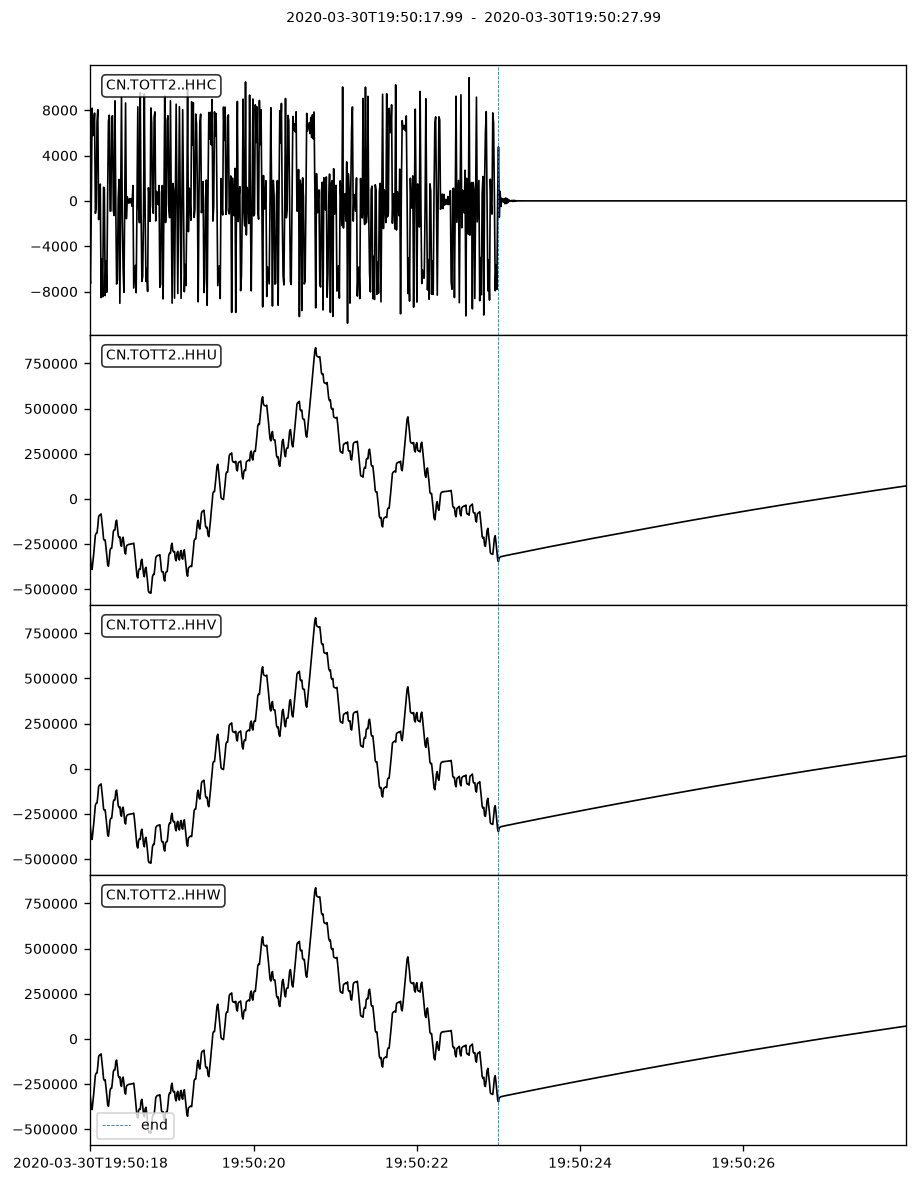
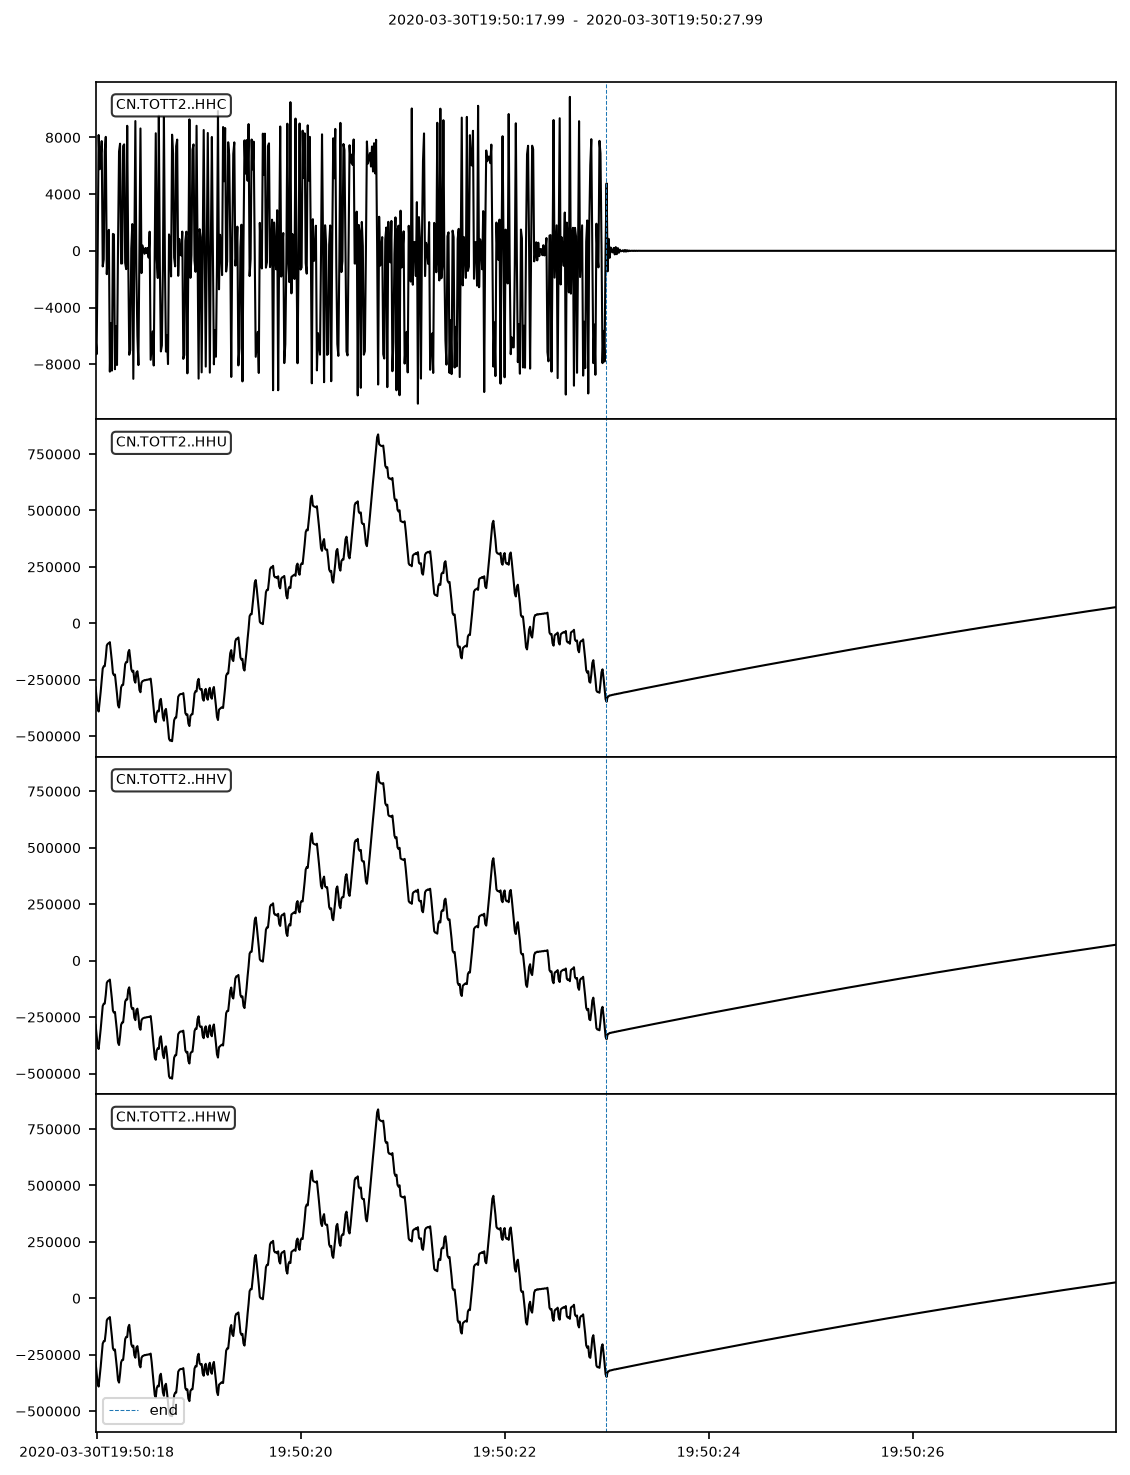
Added support for control over figure width, font size and output format to arbitrary_analyzer.

diff --git a/src/calan/arbitrary_analyzer.py b/src/calan/arbitrary_analyzer.py
@@ -33,7 +33,8 @@ metadata must be provided.
 
 Ackerley, N., & Gias, Z. (2026, in review). Modeling and experimental
 verification of the temperature dependence of short-period seismometer
-response, using pole-zero fitting, Seism. Res. Lett.
+response, using pole-zero fitting, Seismol. Res. Lett.
+https://doi.org/10.1785/0220260110
 """
 # SPDX-FileCopyrightText: 2026 His Majesty the Κing in Right of Canada <copyright.droitdauteur@pch.gc.ca>  # noqa: E501
 #
@@ -88,7 +89,6 @@ from calan.fit_response import fit_response, zpk_out_of_band
 warnings.simplefilter('error', category=BadCoefficients)
 pd.plotting.register_matplotlib_converters()
 np.set_printoptions(suppress=True, precision=6)
-plt.rc('legend', fontsize='small')
 
 # defaults
 
@@ -101,7 +101,10 @@ DEFAULT_OUTPUT_PATTERN = '*.mseed'
 DEFAULT_RESPONSE_PATTERN = '*.resp'
 DEFAULT_CAL_SIGNAL_FILE = 'prb_1V_10ms_3h.lzma'
 DEFAULT_CAL_RESPONSE_FILE = 'Centaur_Trillium120Q_Calibration.xml'
-DEFAULT_DPI = 120
+DEFAULT_WIDTH = 4.25
+DEFAULT_FONTSIZE = 8
+DEFAULT_DPI = 150
+DEFAULT_FMT = 'png'
 DEFAULT_ORIENTATION_MAP = ('', '')
 
 # Centaur configuration
@@ -262,8 +265,17 @@ def _argparser() -> MyArgumentParser:
         help='generate basic (start & end check, transfer function and '
         'variance) or diagnostic plots for each calibration')
     parser.add_argument(
+        '--width', default=DEFAULT_WIDTH, type=float,
+        help='width of plots in inches, ignored for start/end check plots')
+    parser.add_argument(
+        '--fontsize', default=DEFAULT_FONTSIZE, type=float,
+        help='font size to be used in plots, in typographic points')
+    parser.add_argument(
         '--dpi', default=DEFAULT_DPI, type=int,
         help='resolution to use for plots in dots per inch')
+    parser.add_argument(
+        '--fmt', default=DEFAULT_FMT, choices=['pdf', 'png', 'svg', 'eps'],
+        help='output file format for plots')
     parser.add_argument(
         '-v', '--version', action='version',
         version=PACKAGE_VERSION)
@@ -343,7 +355,10 @@ def arbitrary_analyzer(
     fit: int = DEFAULT_FIT_STAGES,
     calper: float | None = None,
     out_of_band: tuple[float, float] = DEFAULT_OUT_OF_BAND_RANGE,
+    width: float = DEFAULT_WIDTH,
+    fontsize: float = DEFAULT_FONTSIZE,
     dpi: float = DEFAULT_DPI,
+    fmt: str = DEFAULT_FMT,
 ) -> str:
     """Do arbitrary-signal calibration analysis."""
     logger = logging.getLogger(__name__)
@@ -357,7 +372,8 @@ def arbitrary_analyzer(
     if len(ims_instrument_type) > 6:
         raise ValueError('IMS instrument type must be 6 or less characters.')
 
-    analyzer = CalibrationAnalyzer(savefig=plot != '', dpi=dpi)
+    analyzer = CalibrationAnalyzer(
+        savefig=plot != '', width=width, fontsize=fontsize, dpi=dpi, fmt=fmt)
 
     if Path(summary_csv).exists() and Path(summary_csv).is_file() and \
             not os.access(summary_csv, os.W_OK):
@@ -406,10 +422,10 @@ def arbitrary_analyzer(
         if plot_level >= PLOT_LEVEL['diagnostic']:
             analyzer.plot_response('sensor', f_limits=(1e-3, 1e2))
             analyzer.plot_transfer_function(remove='cal', errors='estimate')
-            analyzer.plot_transfer_function(remove='system', errors='estimate',
-                                            scale='linear')
-            analyzer.plot_transfer_function(remove='system', errors='correct',
-                                            scale='log')
+            analyzer.plot_transfer_function(
+                remove='system', errors='estimate', scale='linear')
+            analyzer.plot_transfer_function(
+                remove='system', errors='correct', scale='log')
         if plot_level == PLOT_LEVEL['all']:
             analyzer.plot_transfer_function(remove='', errors='')
             analyzer.plot_signal_to_noise()
@@ -548,15 +564,12 @@ class CalibrationAnalyzer():
     def __init__(
         self,
         savefig: bool = True,
+        width: float = DEFAULT_WIDTH,
         dpi: float = DEFAULT_DPI,
+        fmt: str = DEFAULT_FMT,
+        fontsize: float = DEFAULT_FONTSIZE,
     ) -> None:
-        """
-        Initialize calibration analyzer.
-
-        Arguments:
-        - `savefig`: Whether or not to save figures to PNG
-        - `dpi`: Resolution to use when rendering figures
-        """
+        """Initialize calibration analyzer."""
         self.logger = logging.getLogger(self.__class__.__name__)
         self.info = CalibrationInfo()
         self.stream = Stream()
@@ -565,7 +578,12 @@ class CalibrationAnalyzer():
         self.timing_gain_fit = TimingGainFit(confidence=0.95)
         self.zpk_fits = [OptimizeResult()]
         self.savefig = savefig
-        self.dpi = dpi
+        self.width = width
+        self.fmt = fmt
+
+        plt.rc('font', size=fontsize)
+        plt.rc('legend', fontsize=fontsize - 1)
+        plt.rc('savefig', dpi=dpi)
 
     def __del__(self) -> None:
         """Ensure log files are not held open."""
@@ -1625,7 +1643,7 @@ class CalibrationAnalyzer():
         option_list: str | list[str] | None = None,
     ) -> None:
         """Save a figure with an automatically descriptive file name."""
-        if not self.savefig or not self.dpi:
+        if not self.savefig:
             return
 
         if isinstance(option_list, str):
@@ -1649,10 +1667,9 @@ class CalibrationAnalyzer():
 
             file_parts += [common_name, start_string]
 
-        output_png = '_'.join(file_parts) + '.png'
-
-        self.logger.info(output_png)
-        fig.savefig(output_png, dpi=self.dpi, bbox_inches='tight')
+        output_file = '_'.join(file_parts) + '.' + self.fmt.lower()
+        self.logger.info(output_file)
+        fig.savefig(output_file, bbox_inches='tight')
 
     def plot_check(
         self,
@@ -1690,8 +1707,8 @@ class CalibrationAnalyzer():
             f = self.stft.f
         tf_nominal = self.tf_nominal(model, f=f)
 
-        width = plt.rcParams['figure.figsize'][0]
-        fig, axes = plt.subplots(2, 1, sharex=True, figsize=(width, width))
+        fig, axes = plt.subplots(
+            2, 1, sharex=True, figsize=(self.width, 4/3*self.width))
         axes[0].semilogx(f, gain_db(tf_nominal), label=model)
         axes[1].semilogx(f, phase_deg(tf_nominal), label=model)
         axes[0].axvline(self._sampling_rate()/2, linestyle='--', color='0.5',
@@ -1722,7 +1739,7 @@ class CalibrationAnalyzer():
         """Plot simulated calibration response in time domain."""
         simulated = self.simulate_response(trim=trim)
 
-        fig, ax = plt.subplots()
+        fig, ax = plt.subplots(figsize=(self.width, 3/4*self.width))
         if self.stream is not None:
             labels = factor_names(self.stream)[1]
             for output, label in zip(self.voltage('output', trim=trim),
@@ -1745,7 +1762,7 @@ class CalibrationAnalyzer():
         labels = factor_names(self.stream)[1]
         coherence_squared = self.stft.coherence_squared()
 
-        fig, ax = plt.subplots()
+        fig, ax = plt.subplots(figsize=(self.width, 3/4*self.width))
         for snr, label in zip(10*np.log10(1/(1 - coherence_squared)), labels):
             ax.semilogx(self.stft.f, snr, label=label)
         ax.set_xlabel('Frequency [Hz]')
@@ -1771,9 +1788,9 @@ class CalibrationAnalyzer():
              self.stft.p_yy/np.abs(tf_nominal)**2), axis=0))
         max_db = p_dbs.max()
 
-        width = plt.rcParams['figure.figsize'][0]
-        fig, axes = plt.subplots(len(labels), 1, sharex=True,
-                                 figsize=(width, len(labels)*width/3))
+        fig, axes = plt.subplots(
+            len(labels), 1, sharex=True,
+            figsize=(self.width, len(labels)*self.width/3))
         for p_db, ax, label in zip(p_dbs, axes, labels):
 
             image = ax.pcolormesh(t, f, p_db, vmin=max_db - 100, vmax=max_db)
@@ -1804,7 +1821,7 @@ class CalibrationAnalyzer():
 
         variances = self.stft.variance()
 
-        fig, ax = plt.subplots()
+        fig, ax = plt.subplots(figsize=(self.width, 3/4*self.width))
         for snr, label in zip(variances, labels):
             ax.semilogx(self.stft.f, snr, label=label)
         ax.set_xlabel('Frequency [Hz]')
@@ -1891,8 +1908,8 @@ class CalibrationAnalyzer():
         phase_nominal = phase_deg(tf_nominal)
         phase_spec = np.vstack((phase_estimate, phase_nominal))[:, spec]
 
-        width = plt.rcParams['figure.figsize'][0]
-        fig, axes = plt.subplots(2, 1, sharex=True, figsize=(width, width))
+        fig, axes = plt.subplots(
+            2, 1, sharex=True, figsize=(self.width, 4/3*self.width))
 
         if self.lti.fits:
             gain_labels = channels

diff --git a/src/calan/utilities.py b/src/calan/utilities.py
@@ -361,7 +361,7 @@ def stdval(
         # determine how many digits of result to keep
         preferred = np.asarray(preferred, dtype=float)
         preferred = np.reshape(preferred, (1, preferred.size))
-        digits = len(f'{preferred[0][0]:d}')
+        digits = len(f'{preferred[0][0]:.0f}')
 
         # compute multiplier for rounding
         multiplier = 10**np.floor(np.log10(value) - digits + 1)
